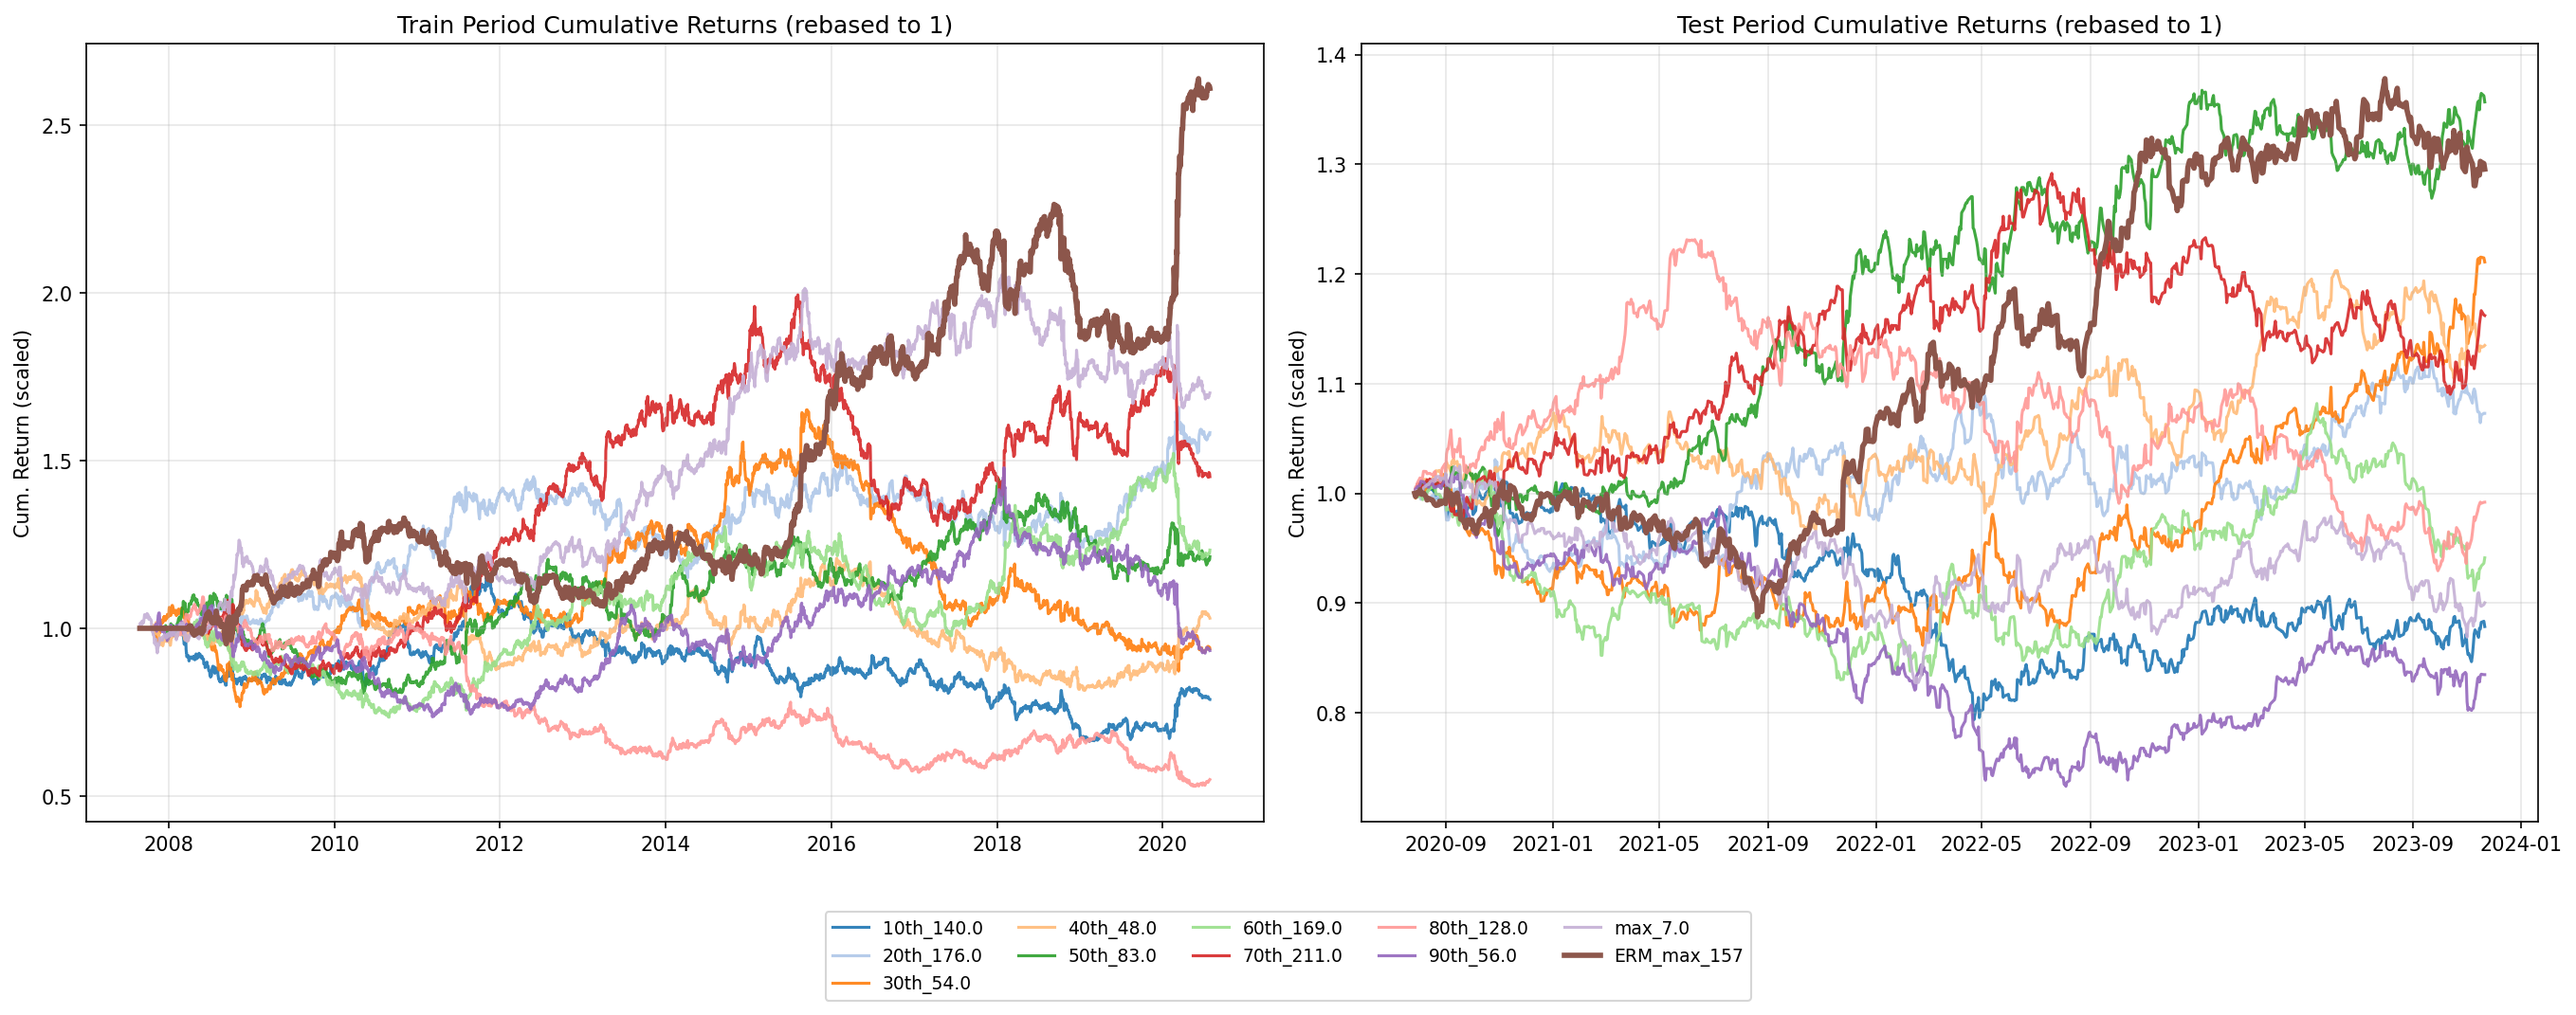
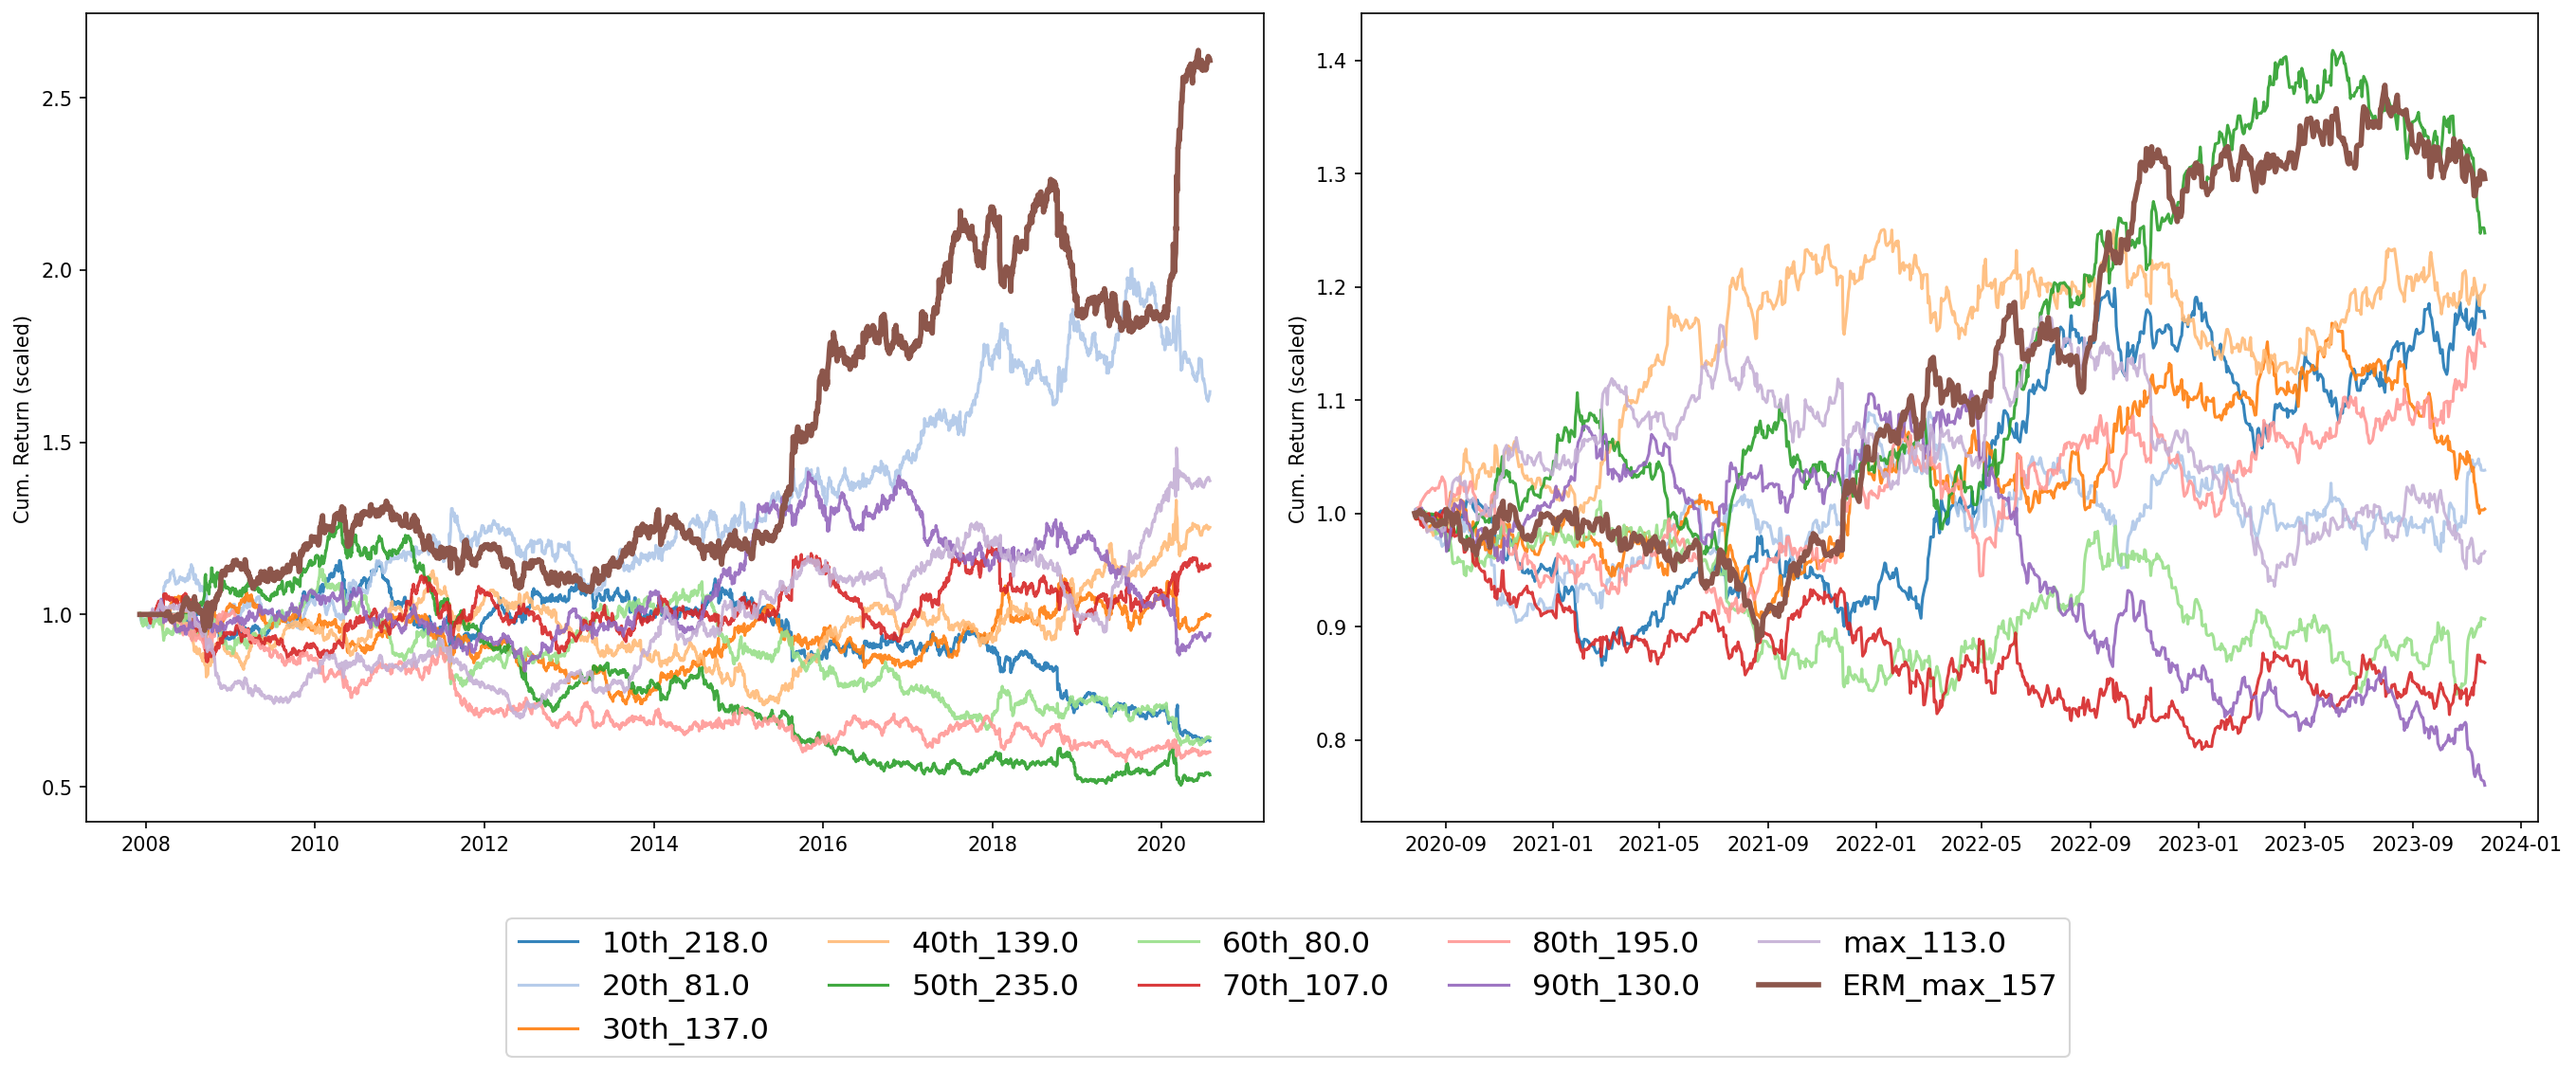
fix outputs

diff --git a/src/run_pipeline_moskowitz.py b/src/run_pipeline_moskowitz.py
@@ -459,17 +459,29 @@ if __name__ == "__main__":
                     linewidth=lw,
                     alpha=alpha,
                     zorder=zorder)
-        ax.set_title(title)
-        ax.set_ylabel("Cum. Return (scaled)")
+        # ax.set_title(title)
+        # ax.set_ylabel("Cum. Return (scaled)")
         ax.grid(True, alpha=0.3)
+
+        for ax in [ax1, ax2]:
+            ax.tick_params(axis='x', labelsize=10)  # increase font size for x-axis
+            # ax.tick_params(axis='y', labelsize=11)  # optional, y-axis too
+
+    # select 90th, 50th, and 10th percentiles for train/test panels + ERM_max
+    train_cum = train_cum.loc[:,train_cum.columns.str.contains("90|50|10|ERM_max")]
+    test_cum = test_cum.loc[:,test_cum.columns.str.contains("90|50|10|ERM_max")]
 
     plot_panel(ax1, train_cum, "Train Period Cumulative Returns (rebased to 1)")
     plot_panel(ax2, test_cum, "Test Period Cumulative Returns (rebased to 1)")
 
     # ------------------ Single legend outside ------------------
     handles, labels = ax1.get_legend_handles_labels()
-    fig.legend(handles, labels, loc="upper center",
-            bbox_to_anchor=(0.5, -0.05), ncol=5, fontsize=9)
+    fig.legend(handles,
+               labels,
+               loc='lower center',
+               bbox_to_anchor=(0.5, -0.10),  # move legend lower
+               ncol=len(labels),             # all entries in one row
+               fontsize=13)
 
     # Save
     out = os.path.join(outputs_path, "results", f"cumret-{SIGNAL_NAME}.png")
